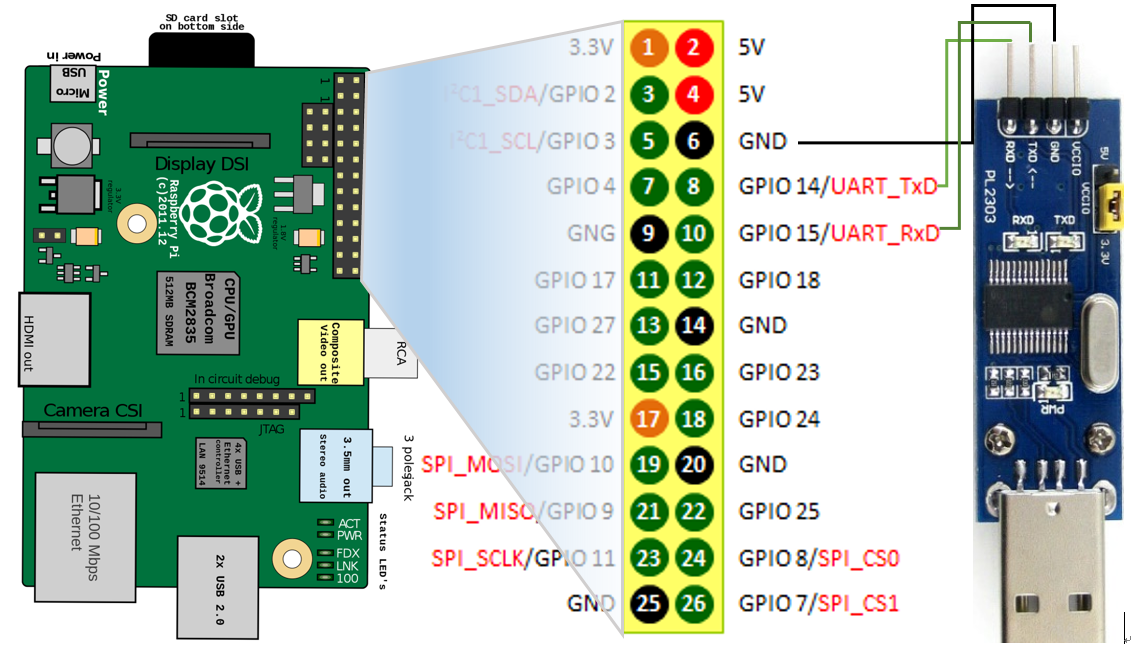
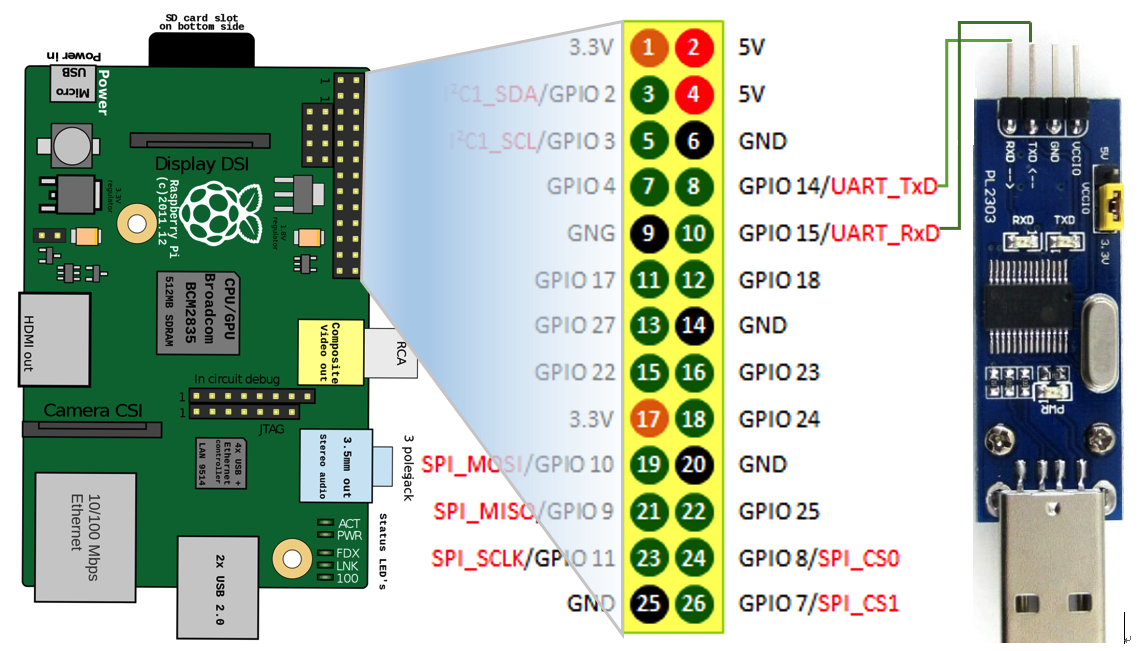
Minor improvement
1、用惯了xfig，尽管现在很少人用它了。

diff --git a/chapter01.tex b/chapter01.tex
@@ -28,11 +28,11 @@
 \begin{itemize}
 \item 树莓派：本文采用1B版做测试，也适用于1B+版和zero版，但尚未在RPI2之后的版本上测试过。该版本树莓派采用博通（Broadcom）的BCM2835作为中央处理器，架构上属于ARMv6的ARM1176JZF-S，只有一个核心。
 
-\item USB转串口小板和3根杜邦线：相比于显示器的输出，串口是最容易接收树莓派输出的接口。目前大部分计算机没有串口（也称为RS232、UART或COM口），而配置了多个USB接口，因此需要一个USB转串口的小板，如图\ref{figure:1-1}所示。连接方法是将树莓派与小板的TxD与RxD对接，GND直连即可，如图\ref{figure:1-1}所示。如果你用1B+版本及其以后的树莓派，它提供了40个引脚，其中前26个与B+之前的版本是兼容的，所以串口的连接方法仍然如图所示。
+\item USB转串口小板和2根杜邦线：相比于显示器的输出，串口是最容易接收树莓派输出的接口。目前大部分计算机没有串口（也称为RS232、UART或COM口），而配置了多个USB接口，因此需要一个USB转串口的小板，如图\ref{figure:1-1}所示。连接方法是将树莓派与小板的TxD与RxD对接，如图\ref{figure:1-1}所示。如果你用1B+版本及其以后的树莓派，它提供了40个引脚，其中前26个与B+之前的版本是兼容的，所以串口的连接方法仍然如图所示。
 
 \begin{figure}[htp]
 \centering
-\includegraphics[scale=0.4]{figures/1-1.png}
+\includegraphics[scale=0.2]{figures/1-1.png}
 \caption{树莓派串口连接示意图}
 \label{figure:1-1}
 \end{figure}
@@ -44,10 +44,10 @@
 
 \subsection{软件环境}
 \begin{itemize}
-\item 首先，把SD卡格式化成FAT文件系统，然后从\htmladdnormallink{GitHub}{https://github.com/raspberrypi/firmware/}下载bootcode.bin和start.elf两个文件并复制到SD卡的根目录下。bootcode.bin和start.elf是树莓派的引导程序，功能上类似于IBM-PC上的BIOS。
+\item 首先，把SD卡格式化成FAT32文件系统，然后从\htmladdnormallink{GitHub}{https://github.com/raspberrypi/firmware/}下载bootcode.bin和start.elf两个文件并复制到SD卡的根目录下。bootcode.bin和start.elf是树莓派的引导程序，功能上类似于IBM-PC上的BIOS。
 \item 因为在开发过程中需要用到一些Unix/Linux平台的工具软件，所以如果在 Windows 下面做开发，要安装\htmladdnormallink{MSYS2}{https://www.msys2.org}。
-\item 从ARM公司\htmladdnormallink{官网}{https://developer.arm.com/tools-and-software/open-source-software/developer-tools/gnu-toolchain/gnu-rm}下载GNU工具链等开发工具，解压缩后把arm-none-eabi/bin加入到路径PATH中。
-\item 准备一个查看串口输出的工具，在Windows平台上，可以使用\htmladdnormallink{PuTTY}{https://www.putty.org}；Unix/Linux可以使用minicom。
+\item 从ARM公司\htmladdnormallink{官网}{https://developer.arm.com/tools-and-software/open-source-software/developer-tools/gnu-toolchain/gnu-rm}下载GNU工具链，解压缩后把arm-none-eabi/bin加入到路径PATH中。
+\item 准备一个查看串口输出的工具，在Windows平台上，可以使用\htmladdnormallink{PuTTY}{https://www.putty.org}；Unix/Linux可以使用\htmladdnormallink{screen}{https://www.gnu.org/software/screen/}。
 \item \htmladdnormallink{QEMU}{https://www.qemu.org}可以模拟树莓派的部分功能，在后期的开发测试过程中，为了提高开发效率，可以用QEMU来代替，以避免反复的插拔SD卡。在前期开发过程中，不建议用QEMU模拟器。
 \end{itemize}
 

diff --git a/src/chapter03/kernel/machdep.c b/src/chapter03/kernel/machdep.c
@@ -60,7 +60,7 @@ void enable_irq(uint32_t irq)
         pic->enable_basic_irqs = 1 << irq;
     } else if(irq < 40) {
         pic->enable_irqs_1 = 1<<(irq - 8);
-    } else if(irq < 72) {
+    } else if(irq < NR_IRQ) {/*=72*/
         pic->enable_irqs_2 = 1<<(irq - 40);
     }
 }
@@ -75,7 +75,7 @@ void disable_irq(uint32_t irq)
         pic->disable_basic_irqs = 1 << irq;
     } else if(irq < 40) {
         pic->disable_irqs_1 = 1<<(irq - 8);
-    } else if(irq < 72) {
+    } else if(irq < NR_IRQ) {/*=72*/
         pic->disable_irqs_2 = 1<<(irq - 40);
     }
 }
@@ -96,11 +96,11 @@ void irq_handler(struct context *ctx)
                 break;
 
         if(irq == 40) {
-            for( ; irq < 72; irq++)
+            for( ; irq < NR_IRQ; irq++)
                 if(pic->irq_pending_1 & (1<<(irq-40)))
                     break;
 
-            if(irq == 72)
+            if(irq == NR_IRQ)/*=72*/
                 return;
         }
     }
